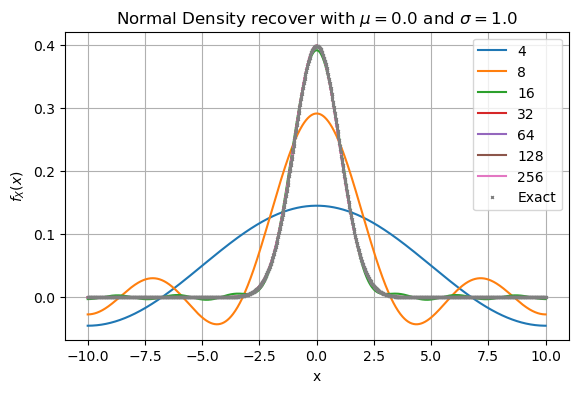
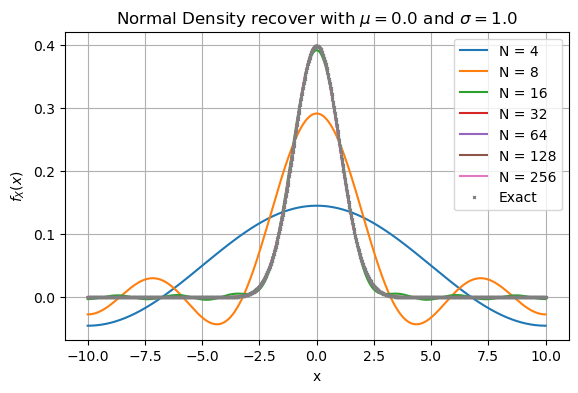
graph

Changed region(s): [[0.7785, 0.0916, 0.9654, 0.5191]]

diff --git a/cal_theory/CallPut_COS_Method.py b/cal_theory/CallPut_COS_Method.py
@@ -15,7 +15,6 @@ def CallPutOptionPriceCOSMthd(cf,CP,S0,r,tau,K,N,L):
     # K    - list of strikes
     # N    - Number of expansion terms
     # L    - size of truncation domain (typ.:L=8 or L=10)  
-
     K = np.array(K).reshape([len(K),1])
     i = complex(0.0,1.0) 
     x0 = np.log(S0 / K)   
@@ -58,7 +57,6 @@ def Chi_Psi(a,b,c,d,k):
     psi = np.sin(k * np.pi * (d - a) / (b - a)) - np.sin(k * np.pi * (c - a)/(b - a))
     psi[1:] = psi[1:] * (b - a) / (k[1:] * np.pi)
     psi[0] = d - c
-    
     chi = 1.0 / (1.0 + np.power((k * np.pi / (b - a)) , 2.0)) 
     expr1 = np.cos(k * np.pi * (d - a)/(b - a)) * np.exp(d)  - np.cos(k * np.pi 
                   * (c - a) / (b - a)) * np.exp(c)
@@ -66,16 +64,12 @@ def Chi_Psi(a,b,c,d,k):
                         (d - a) / (b - a))   - k * np.pi / (b - a) * np.sin(k 
                         * np.pi * (c - a) / (b - a)) * np.exp(c)
     chi = chi * (expr1 + expr2)
-    
-    value = {"chi":chi,"psi":psi }
-    return value
-    
+    return {"chi":chi,"psi":psi }    
 
 def BS_Call_Option_Price(CP,S_0,K,sigma,tau,r):
-    #Black-Scholes Call option price
     cp = str(CP).lower()
     K = np.array(K).reshape([len(K),1])
-    d1    = (np.log(S_0 / K) + (r + 0.5 * np.power(sigma,2.0)) 
+    d1    = (np.log(S_0 / K) + (r + 0.5 * sigma**2) 
     * tau) / float(sigma * np.sqrt(tau))
     d2    = d1 - sigma * np.sqrt(tau)
     if cp == "c" or cp == "1":
@@ -84,13 +78,14 @@ def BS_Call_Option_Price(CP,S_0,K,sigma,tau,r):
         value = st.norm.cdf(-d2) * K * np.exp(-r * tau) - st.norm.cdf(-d1)*S_0
     return value
 
-def mainCalculation():
+if __name__ == "__main__":
+
     i = complex(0.0,1.0)
     
     CP = "c"
     S0 = 100.0
     r = 0.1
-    tau = 0.1
+    tau = 10
     sigma = 0.25
     K = [80.0, 90.0, 100.0, 110, 120.0]
     N = 4*32
@@ -102,10 +97,9 @@ def mainCalculation():
     # is included internally in the evaluation
     # In the book we denote this function as \varphi(u)
 
-    cf = lambda u: np.exp((r - 0.5 * np.power(sigma,2.0)) * i * u * tau - 0.5 
-                          * np.power(sigma, 2.0) * np.power(u, 2.0) * tau)
+    cf = lambda u: np.exp((r - 0.5 * sigma**2) * i * u * tau - 0.5 
+                          * sigma**2 * u**2 * tau)
     
-    # Timing results 
     NoOfIterations = 100
     time_start = time.time() 
     for k in range(0,NoOfIterations,1):
@@ -115,7 +109,7 @@ def mainCalculation():
     
     # evaluate analytical Black Scholes equation
     val_Exact = BS_Call_Option_Price(CP,S0,K,sigma,tau,r)
-    plt.plot(K,val_COS)
+    # plt.plot(K,val_COS)
     plt.plot(K,val_Exact,'--')
     plt.xlabel("strike, K")
     plt.ylabel("Option Price")
@@ -128,5 +122,3 @@ def mainCalculation():
     for i in range(0,len(K)):
         error.append(np.abs(val_COS[i]-val_Exact[i])[0])
         print("Abs error for strike {0} is equal to {1:.2E}".format(K[i],error[i]))
-        
-mainCalculation()

diff --git a/cal_theory/HW_MC.py b/cal_theory/HW_MC.py
@@ -14,6 +14,7 @@ def HWEuler(NPaths,NSteps,T,P0T, lambd, eta):
     Z = np.random.normal(0.0,1.0,[NPaths,NSteps])
     W = np.zeros([NPaths, NSteps+1]) # Wiener process for R(t)
     R = np.zeros([NPaths, NSteps+1])
+    print(r0)
     R[:,0] = r0                      # Initial interest rate
     time = np.zeros([NSteps+1]) 
     dt = T / float(NSteps)
@@ -39,12 +40,12 @@ if __name__ == "__main__":
     NSteps = 20000
     T      = 5.0
     lambd  = 0.5
-    eta    = 0.05
+    eta    = 0.1
     P0T    = lambda T: np.exp(-0.05*T)
 
     plt.figure() 
     legend = []
-    lambdVec = [-0.2, 0.2, 5.0]
+    lambdVec = [-0.2, 0.5, 5.0]
     color = ["blue", "red", "green"]
     for idx,lambdl in enumerate(lambdVec):    
         np.random.seed(1)
@@ -55,7 +56,7 @@ if __name__ == "__main__":
         R = Paths["R"]
         plt.plot(timeGrid, np.transpose(R), color=color[idx])   
     plt.grid()
-    plt.title(rf"Effect of mean reversion lambda ${{\lambda}}$ with ${{\eta}} = $ {eta}")
+    plt.title(rf"Effect of mean reversion with ${{\sigma}} = $ {eta} and ${{r_0}} = 0.5$")
     plt.xlabel("time")
     plt.ylabel("R(t)")
     plt.legend(legend)
@@ -73,7 +74,7 @@ if __name__ == "__main__":
         R = Paths["R"]
         plt.plot(timeGrid, np.transpose(R), color=color[idx])   
     plt.grid()
-    plt.title(rf"Effect of the Volatility with ${{\sigma}} = $ {lambd}")
+    plt.title(rf"Effect of the Volatility with ${{\lambda}} = $ {lambd} and ${{r_0}} = 0.5$")
     plt.xlabel("time")
     plt.ylabel("R(t)")
     plt.legend(legend, loc='upper left')

diff --git a/cal_theory/COS_LogNormal_Density_Recovery.py b/cal_theory/COS_LogNormal_Density_Recovery.py
@@ -23,7 +23,7 @@ if __name__ == "__main__":
     from pylab import *
     pylab.rcParams['figure.figsize'] = (6.5, 4)
 
-    SAVE = 0
+    SAVE = 1
     i = complex(0.0, 1.0)
     a = -10
     b = 10
@@ -46,7 +46,7 @@ if __name__ == "__main__":
         error = np.max(np.abs(f_Y-ff))
         error_list0.append([n,error])
         print("For {0} expansion terms the error is {1}".format(n,error))
-        plt.plot(y,f_Y, label=f"{n}")
+        plt.plot(y,f_Y, label=f"N = {n}")
     plt.plot(y,dist.pdf(y),'x',markersize=2, label="Exact")
     plt.legend()#["N=%.0f"%i for i in N])
     plt.title(rf"Log Normal Density recover with ${{\mu}}={mu}$ and ${{\sigma}} = {sigma}$")
@@ -69,7 +69,7 @@ if __name__ == "__main__":
         error = np.max(np.abs(f_X-f_XExact))
         error_list.append([n,error])
         print("For {0} expansion terms the error is {1}".format(n,error))
-        plt.plot(x,f_X, label=f"{n}")
+        plt.plot(x,f_X, label=f"N = {n}")
     plt.plot(x, f_XExact, 'x',markersize=2, label="Exact")
     plt.legend()
     plt.title(rf"Normal Density recover with ${{\mu}}={mu}$ and ${{\sigma}} = {sigma}$")

diff --git a/config.py b/config.py
@@ -16,7 +16,7 @@ T      = 1.5   # Time until maturity (years)
 r      = 0.07  # Initial interest rate
 
 # K = np.linspace(.01,2*S0*np.exp(r*T),50)
-K = np.arange(80,131,1) # OTM/ATM/ITM options
+K = np.arange(80,81,1) # OTM/ATM/ITM options
 K = np.array(K).reshape([len(K),1]) # Array of strike prices
 
 P0T = lambda T: np.exp(-r*T)  # ZCB curve with maturity T (usually obtained from the market)
